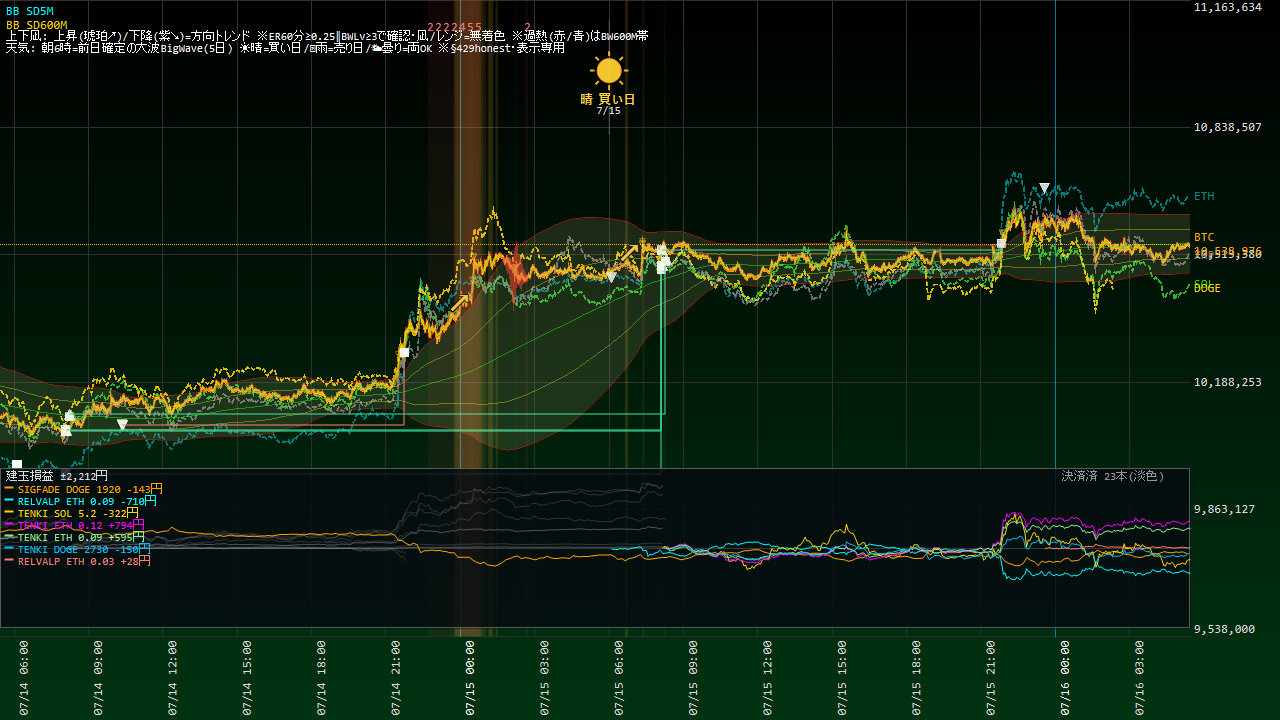
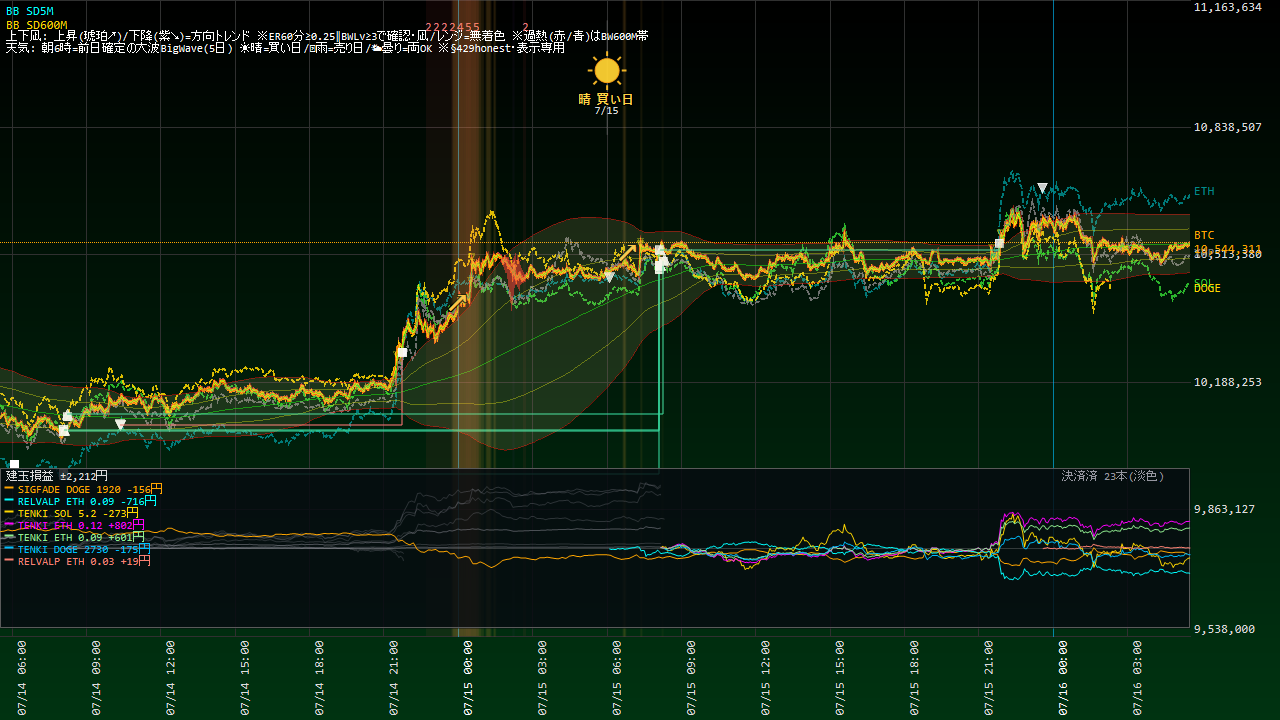
Coin100S 運用状況更新 07-16 05:35

diff --git a/coin100s-795hc4jfv8/index.html b/coin100s-795hc4jfv8/index.html
@@ -14,16 +14,16 @@ a{color:#60a5fa;text-decoration:none} a:hover{text-decoration:underline}
 .meta{color:#94a3b8;font-size:13px}</style>
 <script>setTimeout(function(){location.replace(location.pathname+"?t="+Date.now());},300000);</script></head><body>
 <h1>Coin100S ダッシュボード</h1>
-<p class="meta">スナップショット: 2026-07-16 05:29:02(自動リロード・最新化)</p>
+<p class="meta">スナップショット: 2026-07-16 05:35:03(自動リロード・最新化)</p>
 <div class="cards">
 <div class="card">建玉数<div class="v">7</div></div>
 <div class="card">本日損益<div class="v pos">+7,617円</div></div>
-<div class="card">評価損益<div class="v neg">-108円</div></div>
+<div class="card">評価損益<div class="v neg">-76円</div></div>
 </div>
 <h2>現在の建玉</h2>
-<table><tr><th>銘柄</th><th>側</th><th>数量</th><th>建値</th><th>含損益</th><th>レッグ</th></tr><tr><td>DOGE_JPY</td><td>BUY</td><td>2730</td><td>@12</td><td>-186円</td><td>TENKI5D_REV_DOGE</td></tr><tr><td>DOGE_JPY</td><td>SELL</td><td>1920</td><td>@12</td><td>-131円</td><td>SIGFADE_DOGE</td></tr><tr><td>ETH_JPY</td><td>SELL</td><td>0.03</td><td>@313,051</td><td>+25円</td><td>RELVALP_SL700</td></tr><tr><td>ETH_JPY</td><td>BUY</td><td>0.09</td><td>@305,729</td><td>+581円</td><td>TENKI5D_REV_ETH</td></tr><tr><td>ETH_JPY</td><td>BUY</td><td>0.12</td><td>@305,723</td><td>+776円</td><td>TENKI5D_REV_ETH</td></tr><tr><td>ETH_JPY</td><td>SELL</td><td>0.09</td><td>@304,456</td><td>-697円</td><td>RELVALP_SELL</td></tr><tr><td>SOL_JPY</td><td>BUY</td><td>5.2</td><td>@12,601</td><td>-474円</td><td>TENKI5D_REV_SOL</td></tr></table>
+<table><tr><th>銘柄</th><th>側</th><th>数量</th><th>建値</th><th>含損益</th><th>レッグ</th></tr><tr><td>DOGE_JPY</td><td>BUY</td><td>2730</td><td>@12</td><td>-175円</td><td>TENKI5D_REV_DOGE</td></tr><tr><td>DOGE_JPY</td><td>SELL</td><td>1920</td><td>@12</td><td>-139円</td><td>SIGFADE_DOGE</td></tr><tr><td>ETH_JPY</td><td>SELL</td><td>0.03</td><td>@313,051</td><td>+17円</td><td>RELVALP_SL700</td></tr><tr><td>ETH_JPY</td><td>BUY</td><td>0.09</td><td>@305,729</td><td>+607円</td><td>TENKI5D_REV_ETH</td></tr><tr><td>ETH_JPY</td><td>BUY</td><td>0.12</td><td>@305,723</td><td>+810円</td><td>TENKI5D_REV_ETH</td></tr><tr><td>ETH_JPY</td><td>SELL</td><td>0.09</td><td>@304,456</td><td>-722円</td><td>RELVALP_SELL</td></tr><tr><td>SOL_JPY</td><td>BUY</td><td>5.2</td><td>@12,601</td><td>-474円</td><td>TENKI5D_REV_SOL</td></tr></table>
 <p><a href="status.html"><b>▶ 運用状況の詳細(チャート・本日の取引・レジーム)</b></a></p>
 <h2>日報一覧</h2>
 <table><tr><th>取引日</th><th>実現損益</th><th>総括</th></tr><tr><td><a href='reports/20260714_Coin100S日報.html'>2026-07-14</a></td><td class="pos">+0円</td><td class='meta'>実取引: 新規6件/決済18件、実現損益 +0円。シグナル却下5件（最多: BW10M3_5M／トレンド方向ゲート(N分傾き上と不一致=逆張り方向のfade禁止)）。⚠警告/エラー 9件（要確認）。</td></tr><tr><td><a href='reports/20260713_Coin100S日報.html'>2026-07-13</a></td><td class="pos">+0円</td><td class='meta'>実取引: 新規5件/決済8件、実現損益 +0円。シグナル却下1件（最多: BW10M3_5M／トレンド方向ゲート(N分傾き上と不一致=逆張り方向のfade禁止)）。警告/孤児/エラーなし＝健全。</td></tr><tr><td><a href='reports/20260712_Coin100S日報.html'>2026-07-12</a></td><td class="pos">+0円</td><td class='meta'>実取引: 新規14件/決済6件、実現損益 +0円。シグナル却下5件（最多: BW10M3_5M／トレンド方向ゲート(N分傾き下と不一致=逆張り方向のfade禁止)）。⚠警告/エラー 2件（要確認）。</td></tr><tr><td><a href='reports/20260711_Coin100S日報.html'>2026-07-11</a></td><td class="pos">+0円</td><td class='meta'>実取引: 新規7件/決済6件、実現損益 +0円。⚠警告/エラー 52件（要確認）。</td></tr><tr><td><a href='reports/20260710_Coin100S日報.html'>2026-07-10</a></td><td class="pos">+0円</td><td class='meta'>実取引: 新規7件/決済6件、実現損益 +0円。シグナル却下6件（最多: BW10M3_5M／トレンド方向ゲート(N分傾き上と不一致=逆張り方向のfade禁止)）。警告/孤児/エラーなし＝健全。</td></tr><tr><td><a href='reports/20260709_Coin100S日報.html'>2026-07-09</a></td><td class="pos">+0円</td><td class='meta'>実取引: 新規8件/決済3件、実現損益 +0円。シグナル却下5件（最多: SD120M_5M／トレンド方向ゲート(N分傾き上と不一致=逆張り方向のfade禁止)）。警告/孤児/エラーなし＝健全。</td></tr><tr><td><a href='reports/20260708_Coin100S日報.html'>2026-07-08</a></td><td class="pos">+0円</td><td class='meta'>実取引: 新規2件/決済4件、実現損益 +0円。シグナル却下4件（最多: SD120M_5M／トレンド方向ゲート(N分傾き下と不一致=逆張り方向のfade禁止)）。警告/孤児/エラーなし＝健全。</td></tr><tr><td><a href='reports/20260707_Coin100S日報.html'>2026-07-07</a></td><td class="pos">+0円</td><td class='meta'>実取引: 新規8件/決済6件、実現損益 +0円。シグナル却下4件（最多: SD120M_5M／トレンド方向ゲート(N分傾き上と不一致=逆張り方向のfade禁止)）。⚠警告/エラー 258件（要確認）。</td></tr><tr><td><a href='reports/20260706_Coin100S日報.html'>2026-07-06</a></td><td class="pos">+0円</td><td class='meta'>実取引: 新規9件/決済6件、実現損益 +0円。シグナル却下9件（最多: SD120M_5M／トレンド方向ゲート(N分傾き上と不一致=逆張り方向のfade禁止)）。⚠警告/エラー 150件（要確認）。</td></tr><tr><td><a href='reports/20260705_Coin100S日報.html'>2026-07-05</a></td><td class="pos">+0円</td><td class='meta'>実取引: 新規8件/決済3件、実現損益 +0円。⚠警告/エラー 2件（要確認）。</td></tr><tr><td><a href='reports/20260704_Coin100S日報.html'>2026-07-04</a></td><td class="pos">+0円</td><td class='meta'>実取引: 新規1件/決済2件、実現損益 +0円。⚠警告/エラー 2件（要確認）。</td></tr><tr><td><a href='reports/20260703_Coin100S日報.html'>2026-07-03</a></td><td class="pos">+0円</td><td class='meta'>実取引: 新規5件/決済4件、実現損益 +0円。⚠警告/エラー 15件（要確認）。</td></tr><tr><td><a href='reports/20260702_Coin100S日報.html'>2026-07-02</a></td><td class="pos">+0円</td><td class='meta'>実取引: 新規7件/決済5件、実現損益 +0円。シグナル却下17件（最多: SD120M_5M／トレンド方向ゲート(N分傾き上と不一致=逆張り方向のfade禁止)）。⚠警告/エラー 26件（要確認）。</td></tr><tr><td><a href='reports/20260701_Coin100S日報.html'>2026-07-01</a></td><td class="pos">+0円</td><td class='meta'>実取引: 新規14件/決済8件、実現損益 +0円。シグナル却下14件（最多: SD120M_5M／ボラ軸ゲート(SDN%&amp;gt;N%=高ボラ/荒れレンジ)）。⚠警告/エラー 2件（要確認）。</td></tr><tr><td><a href='reports/20260630_Coin100S日報.html'>2026-06-30</a></td><td class="pos">+0円</td><td class='meta'>実取引: 新規0件/決済1件、実現損益 +0円。シグナル却下29件（最多: 微5M／当日枠N）。警告/孤児/エラーなし＝健全。</td></tr></table>
-<hr><p class="meta">更新: 2026-07-16 05:29:06 / 自動生成: tools/web_publish.py(§580)</p>
+<hr><p class="meta">更新: 2026-07-16 05:35:06 / 自動生成: tools/web_publish.py(§580)</p>
 </body></html>

diff --git a/coin100s-795hc4jfv8/status.html b/coin100s-795hc4jfv8/status.html
@@ -14,22 +14,22 @@ a{color:#60a5fa;text-decoration:none} a:hover{text-decoration:underline}
 .meta{color:#94a3b8;font-size:13px}</style>
 <script>setTimeout(function(){location.replace(location.pathname+"?t="+Date.now());},300000);</script></head><body>
 <h1>Coin100S 運用状況</h1>
-<p class="meta">スナップショット: 2026-07-16 05:28:32 / ページ生成: 2026-07-16 05:29:06(自動リロード・最新化) / <a href="index.html">目次へ</a></p>
+<p class="meta">スナップショット: 2026-07-16 05:34:33 / ページ生成: 2026-07-16 05:35:06(自動リロード・最新化) / <a href="index.html">目次へ</a></p>
 <div class="cards">
 <div class="card">建玉数<div class="v">7</div></div>
 <div class="card">本日損益<div class="v pos">+7,617円</div></div>
-<div class="card">評価損益<div class="v neg">-108円</div></div>
+<div class="card">評価損益<div class="v neg">-47円</div></div>
 </div>
 <h2>資産推移(直近30日)</h2>
-<img src="status_equity.png?t=0529" alt="equity">
+<img src="status_equity.png?t=0535" alt="equity">
 <h2>取引チャート(直近24h)</h2>
-<img src="status_chart.png?t=0529" alt="chart">
+<img src="status_chart.png?t=0535" alt="chart">
 <h2>建玉一覧</h2>
-<table><tr><th>銘柄</th><th>側</th><th>数量</th><th>建値</th><th>含損益</th><th>レッグ</th></tr><tr><td>DOGE_JPY</td><td>BUY</td><td>2730</td><td>@12</td><td>-192円</td><td>TENKI5D_REV_DOGE</td></tr><tr><td>DOGE_JPY</td><td>SELL</td><td>1920</td><td>@12</td><td>-127円</td><td>SIGFADE_DOGE</td></tr><tr><td>ETH_JPY</td><td>SELL</td><td>0.03</td><td>@313,051</td><td>+25円</td><td>RELVALP_SL700</td></tr><tr><td>ETH_JPY</td><td>BUY</td><td>0.09</td><td>@305,729</td><td>+581円</td><td>TENKI5D_REV_ETH</td></tr><tr><td>ETH_JPY</td><td>BUY</td><td>0.12</td><td>@305,723</td><td>+776円</td><td>TENKI5D_REV_ETH</td></tr><tr><td>ETH_JPY</td><td>SELL</td><td>0.09</td><td>@304,456</td><td>-697円</td><td>RELVALP_SELL</td></tr><tr><td>SOL_JPY</td><td>BUY</td><td>5.2</td><td>@12,601</td><td>-474円</td><td>TENKI5D_REV_SOL</td></tr></table>
+<table><tr><th>銘柄</th><th>側</th><th>数量</th><th>建値</th><th>含損益</th><th>レッグ</th></tr><tr><td>DOGE_JPY</td><td>BUY</td><td>2730</td><td>@12</td><td>-175円</td><td>TENKI5D_REV_DOGE</td></tr><tr><td>DOGE_JPY</td><td>SELL</td><td>1920</td><td>@12</td><td>-139円</td><td>SIGFADE_DOGE</td></tr><tr><td>ETH_JPY</td><td>SELL</td><td>0.03</td><td>@313,051</td><td>+7円</td><td>RELVALP_SL700</td></tr><tr><td>ETH_JPY</td><td>BUY</td><td>0.09</td><td>@305,729</td><td>+636円</td><td>TENKI5D_REV_ETH</td></tr><tr><td>ETH_JPY</td><td>BUY</td><td>0.12</td><td>@305,723</td><td>+849円</td><td>TENKI5D_REV_ETH</td></tr><tr><td>ETH_JPY</td><td>SELL</td><td>0.09</td><td>@304,456</td><td>-751円</td><td>RELVALP_SELL</td></tr><tr><td>SOL_JPY</td><td>BUY</td><td>5.2</td><td>@12,601</td><td>-474円</td><td>TENKI5D_REV_SOL</td></tr></table>
 <h2>実現決済履歴(直近15件・OrderId単位)</h2>
 <table><tr><th>決済時刻</th><th>レッグ</th><th>銘柄</th><th>実現損益</th></tr><tr><td>07-15 21:51</td><td>TENKI5D_REV_BTC</td><td>BTC</td><td class="pos">+94円</td></tr><tr><td>07-15 08:18</td><td>TENKI5D_REV_DOGE</td><td>DOGE</td><td class="pos">+858円</td></tr><tr><td>07-15 08:09</td><td>TENKI5D_REV_ETH</td><td>ETH</td><td class="pos">+601円</td></tr><tr><td>07-15 08:09</td><td>TENKI5D_REV_ETH</td><td>ETH</td><td class="pos">+2,402円</td></tr><tr><td>07-15 08:09</td><td>TENKI5D_REV_SOL</td><td>SOL</td><td class="pos">+1,812円</td></tr><tr><td>07-15 08:09</td><td>TENKI5D_REV_BTC</td><td>BTC</td><td class="pos">+1,850円</td></tr><tr><td>07-14 21:47</td><td>SIGFADE_ETH</td><td>ETH</td><td class="neg">-350円</td></tr><tr><td>07-14 21:47</td><td>SIGFADE_ETH</td><td>ETH</td><td class="neg">-141円</td></tr><tr><td>07-14 08:15</td><td>TENKI5D_REV_DOGE</td><td>DOGE</td><td class="pos">+267円</td></tr><tr><td>07-14 08:06</td><td>TENKI5D_REV_SOL</td><td>SOL</td><td class="pos">+1,011円</td></tr><tr><td>07-14 08:06</td><td>TENKI5D_REV_BTC</td><td>BTC</td><td class="pos">+819円</td></tr><tr><td>07-14 08:06</td><td>TENKI5D_REV_ETH</td><td>ETH</td><td class="pos">+826円</td></tr><tr><td>07-14 06:08</td><td>RELVALP_SELL</td><td>ETH</td><td class="pos">+89円</td></tr><tr><td>07-14 06:08</td><td>RELVALP_SELL</td><td>ETH</td><td class="pos">+357円</td></tr><tr><td>07-14 06:08</td><td>RELVALP_SELL</td><td>ETH</td><td class="pos">+314円</td></tr></table>
 <!-- §799c 「本取引日の実取引(6:00起点)」テーブルは公開ページから削除(ユーザー指示2026-07-15・数量/指値まで晒す情報漏れ)。建玉/実現損益は許可・実発注の生取引明細は非公開 -->
 <h2>現在レジーム(3軸・§570c)</h2>
-<ul><li>アルト対BTC 5日: <b>+0bps</b>(アルト優越=RELVAL逆風)</li><li>BTC ER240m: <b>0.021</b>(閾値0.25→レンジ(fade順風/BWTRD逆風))</li><li>BTC実現ボラ240m: <b>4.42</b> bps/分</li></ul>
+<ul><li>アルト対BTC 5日: <b>+0bps</b>(アルト優越=RELVAL逆風)</li><li>BTC ER240m: <b>0.037</b>(閾値0.25→レンジ(fade順風/BWTRD逆風))</li><li>BTC実現ボラ240m: <b>4.26</b> bps/分</li></ul>
 <hr><p class="meta">自動生成: tools/web_publish.py(§580・読み取り専用)。売買判断はアプリ本体。</p>
 </body></html>
